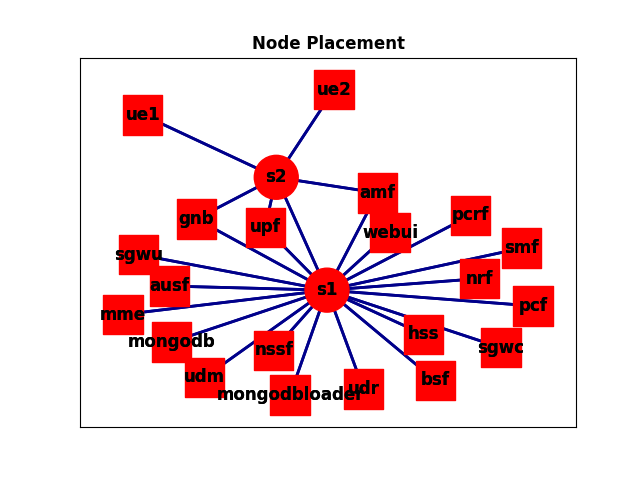
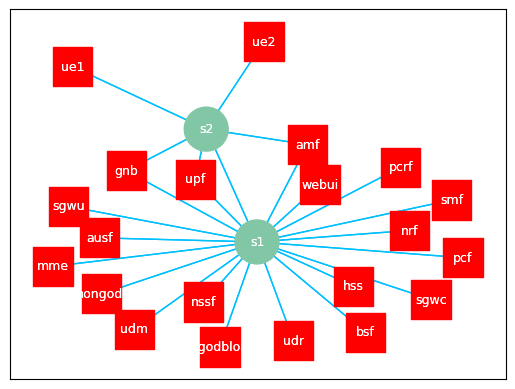
Fixed topology generation code

diff --git a/comnetsemu/network.py b/comnetsemu/network.py
@@ -22,17 +22,6 @@ nx, graphviz_layout, plt = None, None, None  # Will be imported on demand
 
 # Plotting code
 # From https://github.com/mininet/mininet/blob/master/examples/clustercli.py
-def colorsFor(seq):
-        "Return a list of background colors for a sequence"
-        colors = [ 'red', 'lightgreen', 'cyan', 'yellow', 'orange',
-                   'magenta', 'pink', 'grey', 'brown',
-                   'white' ]
-        slen, clen = len( seq ), len( colors )
-        reps = max( 1, slen / clen )
-        colors = colors * reps
-        colors = colors[ 0 : slen ]
-        return colors
-
 def do_plot(net):
     "Plot topology colored by node placement"
     # Import networkx if needed
@@ -67,30 +56,24 @@ def do_plot(net):
     links = [ ( link.intf1.node, link.intf2.node )
                 for link in net.links ]
     g.add_edges_from( links )
-    # Pick some shapes and colors
-    # shapes = hlen * [ 's' ] + slen * [ 'o' ]
-    color = dict( zip( servers, colorsFor( servers ) ) )
     # Plot it!
     pos = graphviz_layout( g )
-    opts = { 'ax': None, 'font_weight': 'bold',
-                'width': 2, 'edge_color': 'darkblue' }
-    hcolors = [ color[ getattr( h, 'server', 'localhost' ) ]
+    opts = { 'ax': None, 'width': 1, 'edge_color': '#00bfff',
+            'font_size': 9, 'font_color':'white' }
+    hcolors = [ "#0145ac"
                 for h in hosts ]
-    scolors = [ color[ getattr( s, 'server', 'localhost' ) ]
+    scolors = [ "#82c7a5"
                 for s in switches ]
     nx.draw_networkx( g, pos=pos, nodelist=hosts, node_size=800,
                         label='host', node_color=hcolors, node_shape='s',
                         **opts )
     nx.draw_networkx( g, pos=pos, nodelist=switches, node_size=1000,
                         node_color=scolors, node_shape='o', **opts )
-    # Get rid of axes, add title, and show
-    fig = plt.gcf()
+    # Get rid of axes and title, and show
     ax = plt.gca()
     ax.get_xaxis().set_visible( False )
     ax.get_yaxis().set_visible( False )
-    fig.canvas.set_window_title( 'Mininet')
-    plt.title( 'Node Placement', fontweight='bold' )
-    plt.savefig('netTopo.png')
+    plt.savefig('netTopo.png',bbox_inches='tight',transparent=True)
 
 def initialize5GNet(interactive, plot):
     bind_dir = "/home/vagrant/comnetsemu/app/network2_project/UERANSIM"
